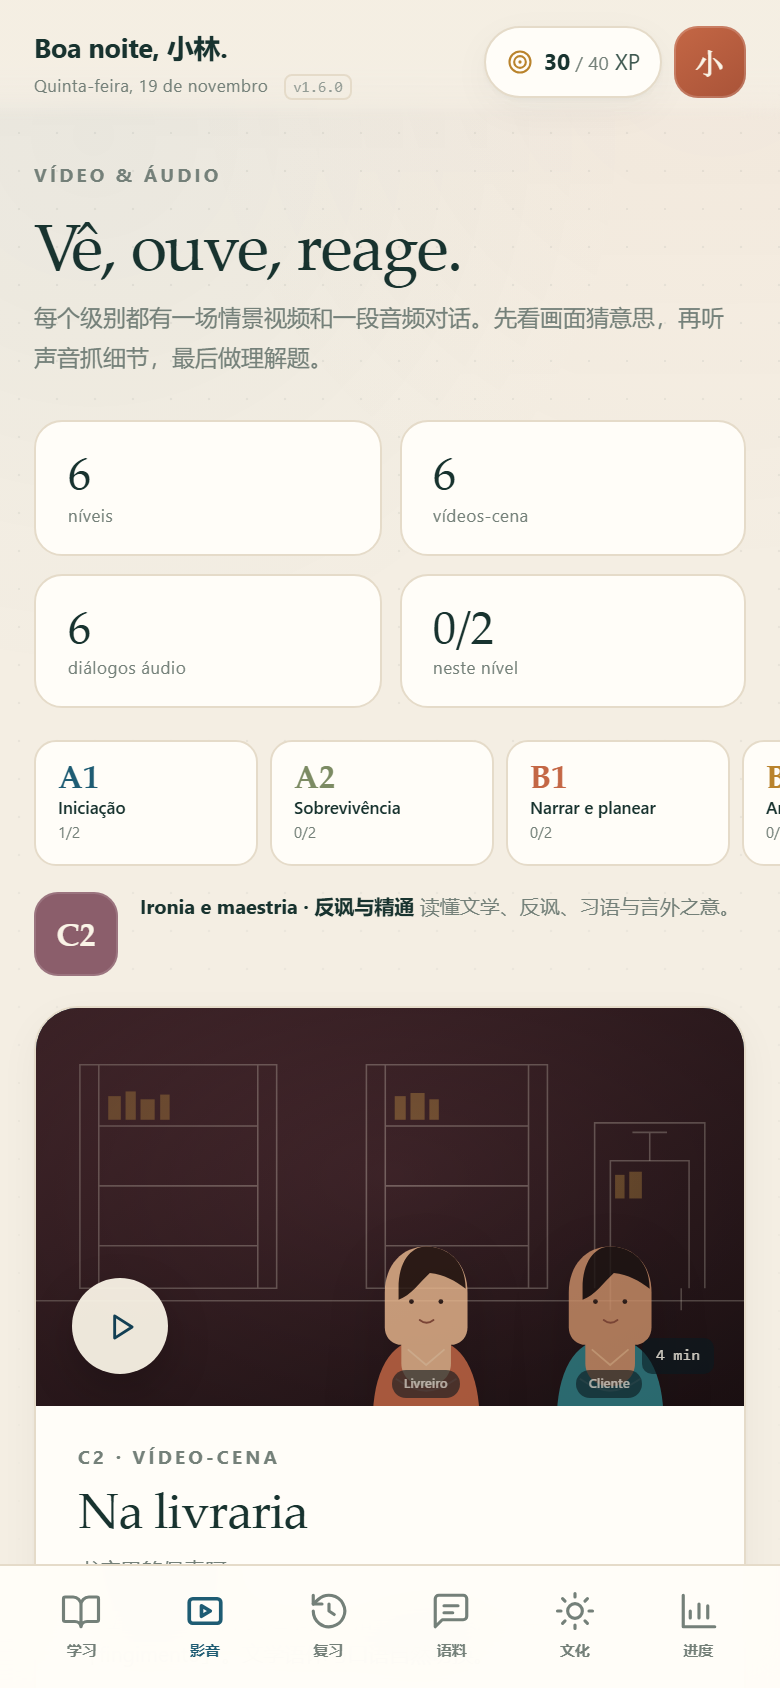
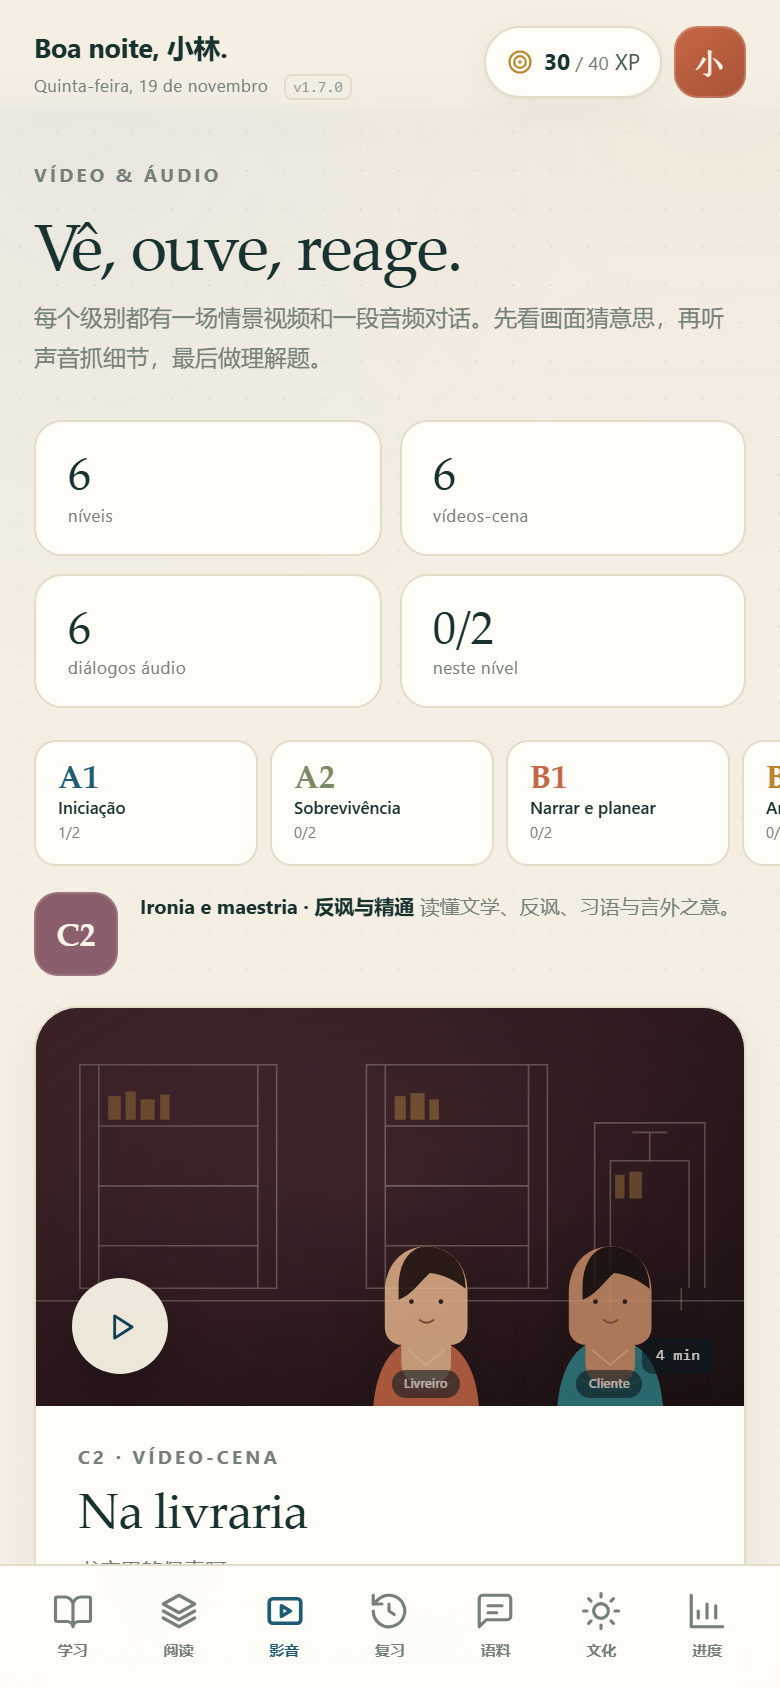
Add standalone reading library and direct entry

diff --git a/js/app.js b/js/app.js
@@ -11,7 +11,7 @@
   const RESOURCES = window.AZ_RESOURCES || [];
   const STORAGE_KEY = 'azulejo.state.v1';
   const VERSION_KEY = 'azulejo.version.seen';
-  const APP_VERSION = '1.6.0';
+  const APP_VERSION = '1.7.0';
   const XP_PER_LEVEL = 120;
   const LEVEL_TITLES = ['Curioso', 'Viajante', 'Conversador', 'Lisboeta', 'Contador de histórias', 'Alma portuguesa'];
 
@@ -536,6 +536,7 @@
 
   const NAV = [
     { id: 'learn', label: '学习', pt: 'Aprender', href: '#/learn', icon: 'book' },
+    { id: 'reading', label: '阅读', pt: 'Leitura & escuta', href: '#/reading', icon: 'layers' },
     { id: 'media', label: '影音', pt: 'Vídeo & áudio', href: '#/media', icon: 'video' },
     { id: 'review', label: '复习', pt: 'Revisão', href: '#/review', icon: 'review' },
     { id: 'phrases', label: '语料', pt: 'Frases & palavras', href: '#/phrases', icon: 'chat' },
@@ -546,6 +547,7 @@
   const ui = {
     route: 'learn',
     courseLevel: '',
+    readingLevel: 'A1',
     mediaLevel: 'A1',
     languageTab: 'phrases',
     phraseGroup: 'all',
@@ -657,7 +659,8 @@
     const info = routeInfo();
     const name = info.name;
     const mediaPlayer = name === 'media' && Boolean(info.parts[1]);
-    const focus = name === 'lesson' || mediaPlayer || (name === 'review' && info.parts[1] === 'session');
+    const directReading = name === 'read' && Boolean(info.parts[1]);
+    const focus = name === 'lesson' || directReading || mediaPlayer || (name === 'review' && info.parts[1] === 'session');
     if (mediaPlay && !mediaPlayer) {
       Speech.stop();
       clearTimeout(mediaTimer);
@@ -665,15 +668,15 @@
     }
     document.body.classList.toggle('focus-mode', focus);
     closeModal(true);
-    ui.route = name === 'lesson' ? 'learn' : name;
+    ui.route = name === 'lesson' ? 'learn' : directReading ? 'reading' : name;
     if (focus) {
-      if (name === 'lesson') {
+      if (name === 'lesson' || directReading) {
         const lesson = lessonMap.get(info.parts[1]);
         if (!lesson) {
-          location.hash = '#/learn';
+          location.hash = directReading ? '#/reading' : '#/learn';
           return;
         }
-        startLesson(lesson);
+        startLesson(lesson, directReading ? { startAt: 'immersion' } : {});
       } else if (mediaPlayer) {
         startMedia(info.parts[1]);
       } else {
@@ -681,7 +684,7 @@
       }
       return;
     }
-    if (!['learn', 'media', 'review', 'phrases', 'culture', 'progress'].includes(name)) {
+    if (!['learn', 'reading', 'media', 'review', 'phrases', 'culture', 'progress'].includes(name)) {
       location.hash = '#/learn';
       return;
     }
@@ -690,6 +693,7 @@
     ui.media = null;
     renderChrome(name);
     if (name === 'learn') renderHome();
+    if (name === 'reading') renderReadingPage();
     if (name === 'media') renderMediaPage();
     if (name === 'review') renderReviewPage();
     if (name === 'phrases') renderPhrasesPage();
@@ -1088,13 +1092,16 @@
     return steps;
   }
 
-  function startLesson(lesson) {
+  function startLesson(lesson, options = {}) {
     const steps = lessonSteps(lesson);
+    const startIndex = options.startAt === 'immersion'
+      ? Math.max(0, steps.findIndex(step => step.kind === 'immersion'))
+      : 0;
     ui.lesson = {
       id: lesson.id,
       lesson,
       steps,
-      index: 0,
+      index: startIndex,
       correct: 0,
       mistakes: 0,
       answered: false,
@@ -1102,6 +1109,7 @@
       accentWarning: false,
       feedback: '',
       done: false,
+      directReading: Boolean(options.startAt),
       stepState: null,
       immState: { answers: {}, speaking: null }
     };
@@ -1827,7 +1835,11 @@
 
   function requestLeaveLesson() {
     if (!ui.lesson || ui.lesson.done) {
-      go('#/learn');
+      go(ui.lesson && ui.lesson.directReading ? '#/reading' : '#/learn');
+      return;
+    }
+    if (ui.lesson.directReading) {
+      go('#/reading');
       return;
     }
     openConfirm('Sair da lição?', 'O progresso desta lição não será guardado. As palavras novas só entram na revisão no fim.', 'confirm-leave-lesson', 'Sair', 'Continuar a lição');
@@ -2276,6 +2288,35 @@
       <div class="resource-bottom"><span>${esc(resource.license)}</span><span class="resource-link">Abrir ${icon('arrow-right')}</span></div>
       <span class="resource-note">${esc(resource.note)}</span>
     </a>`;
+  }
+
+  function readingCardHTML(lesson) {
+    const level = lesson.unit.level;
+    const grammar = lesson.grammar ? lesson.grammar.title : `Prática · ${lesson.focusTitle || 'revisão'}`;
+    const words = lesson.vocab.slice(0, 3).map(word => word.pt).join(' · ');
+    return `<a class="reading-card reading-${level}" href="#/read/${lesson.id}" aria-label="Ler e ouvir: ${esc(lesson.title)}">
+      <div class="reading-card-top"><span class="reading-card-level">${level}</span><span class="reading-card-kind">${lesson.isLab ? 'PRÁTICA' : 'LIÇÃO'}</span></div>
+      <h3>${esc(lesson.title)}</h3>
+      <p>${esc(lesson.zh)}</p>
+      <div class="reading-card-words">${esc(words)}</div>
+      <div class="reading-card-foot"><span>${esc(grammar)}</span><b>Ler & ouvir ${icon('arrow-right')}</b></div>
+    </a>`;
+  }
+
+  function renderReadingPage() {
+    const level = LEVELS.find(item => item.id === ui.readingLevel) || LEVELS[0];
+    const lessons = lessonsForLevel(level.id);
+    const total = coreLessons.length + labLessons.length;
+    $('#view').innerHTML = `
+      <div class="page reading-page">
+        ${pageHead('LEITURA & ESCUTA', 'Lê, ouve, fala.', '每节课都有一篇场景短文、一个同级别对话和一句跟读。选一个场景，直接开始阅读。', `<div class="head-badge alt">${icon('layers')}<span><strong>${total}</strong><small>leituras</small></span></div>`)}
+        <div class="reading-level-tabs" role="tablist" aria-label="Escolhe o nível de leitura">
+          ${LEVELS.map(item => `<button class="filter-chip ${item.id === level.id ? 'is-active' : ''}" data-action="select-reading-level" data-level="${item.id}">${item.id}<span>${lessonsForLevel(item.id).length}</span></button>`).join('')}
+        </div>
+        <div class="reading-list-head"><span>${level.id} · ${lessons.length} leituras</span><span>${icon('volume')} texto + áudio + fala</span></div>
+        <div class="reading-grid">${lessons.map(readingCardHTML).join('')}</div>
+      </div>`;
+    document.title = 'Leitura & escuta · Azulejo';
   }
 
   function renderCulturePage() {
@@ -3245,6 +3286,10 @@
           if (course) course.scrollIntoView({ behavior: 'smooth', block: 'start' });
         });
         break;
+      case 'select-reading-level':
+        ui.readingLevel = el.dataset.level;
+        renderReadingPage();
+        break;
       case 'select-media-level':
         ui.mediaLevel = el.dataset.level;
         renderMediaPage();
@@ -3499,7 +3544,7 @@
         location.reload();
         break;
       case 'confirm-leave-lesson':
-        go('#/learn');
+        go(ui.lesson && ui.lesson.directReading ? '#/reading' : '#/learn');
         break;
       case 'test-voice':
         Speech.speak('Olá! Bem-vindo ao português europeu. Esta é a tua voz.', false, el);

diff --git a/css/styles.css b/css/styles.css
@@ -3202,6 +3202,57 @@ input[type="range"] { width: 100%; accent-color: var(--blue); }
   .mastery-row { grid-template-columns: 34px 130px minmax(0, 1fr) 36px; }
 }
 
+/* Reading library */
+
+.reading-page { max-width: 1180px; }
+.reading-level-tabs { display: flex; flex-wrap: wrap; gap: 6px; margin-top: 18px; }
+.reading-level-tabs .filter-chip { min-width: 62px; justify-content: center; }
+.reading-list-head { display: flex; align-items: center; justify-content: space-between; margin: 16px 0 8px; font-size: 8.5px; letter-spacing: .04em; color: var(--muted-2); }
+.reading-list-head span:last-child { display: inline-flex; align-items: center; gap: 4px; }
+.reading-list-head .icon { width: 12px; height: 12px; }
+.reading-grid { display: grid; grid-template-columns: repeat(3, minmax(0,1fr)); gap: 9px; }
+
+.reading-card {
+  --rc: var(--blue);
+  --rc-soft: var(--blue-soft);
+  display: flex;
+  flex-direction: column;
+  min-height: 208px;
+  padding: 15px;
+  border: 1px solid var(--line);
+  border-top: 3px solid var(--rc);
+  border-radius: 14px;
+  background: var(--surface);
+  transition: transform .16s ease, box-shadow .16s ease, border-color .16s ease;
+}
+.reading-card:hover { transform: translateY(-2px); border-color: color-mix(in srgb, var(--rc) 35%, var(--line)); border-top-color: var(--rc); box-shadow: 0 9px 22px rgba(24,51,47,.07); }
+.reading-A1 { --rc: var(--blue); --rc-soft: var(--blue-soft); }
+.reading-A2 { --rc: var(--terra); --rc-soft: var(--terra-soft); }
+.reading-B1 { --rc: var(--olive); --rc-soft: var(--olive-soft); }
+.reading-B2 { --rc: var(--gold-deep); --rc-soft: var(--gold-soft); }
+.reading-C1 { --rc: var(--plum); --rc-soft: var(--plum-soft); }
+.reading-C2 { --rc: var(--sea); --rc-soft: var(--sea-soft); }
+.reading-card-top { display: flex; align-items: center; justify-content: space-between; gap: 8px; }
+.reading-card-level { display: inline-grid; place-items: center; width: 26px; height: 18px; border-radius: 4px; background: var(--rc-soft); color: var(--rc); font-size: 7px; font-weight: 800; }
+.reading-card-kind { font-size: 6.5px; font-weight: 750; letter-spacing: .1em; color: var(--muted-2); }
+.reading-card h3 { margin-top: 10px; font-family: var(--font-display); font-size: 22px; font-weight: 600; line-height: 1.1; letter-spacing: -.02em; }
+.reading-card p { margin-top: 4px; font-size: 9.5px; line-height: 1.45; color: var(--muted); }
+.reading-card-words { margin-top: 8px; overflow: hidden; text-overflow: ellipsis; white-space: nowrap; font-size: 8px; color: var(--rc); }
+.reading-card-foot { display: flex; align-items: center; justify-content: space-between; gap: 8px; margin-top: auto; padding-top: 12px; border-top: 1px solid var(--line-soft); font-size: 7px; color: var(--muted-2); }
+.reading-card-foot span { overflow: hidden; text-overflow: ellipsis; white-space: nowrap; }
+.reading-card-foot b { display: inline-flex; align-items: center; gap: 3px; flex: none; color: var(--rc); font-size: 7px; }
+.reading-card-foot .icon { width: 10px; height: 10px; }
+
+@media (max-width: 1000px) {
+  .reading-grid { grid-template-columns: repeat(2, minmax(0,1fr)); }
+}
+
+@media (max-width: 620px) {
+  .reading-grid { grid-template-columns: 1fr; }
+  .reading-card { min-height: 0; }
+  .reading-list-head { margin-top: 12px; }
+}
+
 /* PT-PT external resources */
 
 .resource-section {
@@ -3289,7 +3340,7 @@ input[type="range"] { width: 100%; accent-color: var(--blue); }
   .sidebar { display: none; }
   .topbar { padding: 16px 24px 13px; }
   .view { padding: 6px 24px 104px; }
-  .bottom-nav { display: grid; grid-template-columns: repeat(6, 1fr); }
+  .bottom-nav { display: grid; grid-template-columns: repeat(7, 1fr); }
   .topbar-meta, .topbar-sep { display: none; }
   .topbar-date { font-size: 9.5px; }
   .goal-pill { height: 36px; }

diff --git a/index.html b/index.html
@@ -4,7 +4,7 @@
   <meta charset="utf-8">
   <meta name="viewport" content="width=device-width, initial-scale=1, viewport-fit=cover">
   <meta name="theme-color" content="#123f53">
-  <meta name="app-version" content="1.6.0">
+  <meta name="app-version" content="1.7.0">
   <meta name="description" content="Azulejo — 从 A1 到 C2 的欧洲葡萄牙语（pt-PT）学习应用：每级 30 节课，共 180 节；12 个情景视频与音频对话、210 个中英葡法西五语词汇、间隔复习与文化阅读。">
   <title>Azulejo · Aprender português europeu</title>
   <link rel="manifest" href="manifest.webmanifest">

diff --git a/sw.js b/sw.js
@@ -1,5 +1,5 @@
 /* Azulejo service worker — offline-first after the first visit. */
-const CACHE = 'azulejo-v1.6.0';
+const CACHE = 'azulejo-v1.7.0';
 const CORE = [
   './',
   './index.html',

diff --git a/README.md b/README.md
@@ -41,6 +41,9 @@ PT-PT 外部资源入口：
 - **7 篇文化阅读**：葡葡 vs 巴葡、`sh` 发音、`bica`、`tu` 与 `senhor`、saudade 等。
 - **5 个 PT-PT 外部资源入口**：Falar、Fala Bem、PTptIndex、EP Spoken Frequency、Conversas com Amália；在「文化 → Recursos externos」里直接跳转，全部经过 pt-PT 筛选，不含巴葡项目。
 - **每节课自己的阅读、听力和口语**：`Leitura & escuta` 步骤用本课目标句组成场景短文；听力与跟读直接取同级别的视频/音频对话，配 2 道阅读题、2 道听力题和一句角色跟读，并可打开完整媒体。
+- **独立阅读入口**：顶部「阅读」栏目按 A1–C2 列出全部 180 个阅读场景，点击卡片直接跳到该课的阅读步骤，不需要先过单词和语法。
+
+![独立阅读入口](screenshots/reading.png)
 
 ![每课阅读、听力与跟读](screenshots/immersion.png)
 - **进度系统**：XP、每日目标、连续学习、等级、14 个成就、周活动图、级别与单元掌握度。
@@ -99,7 +102,7 @@ Node.js 仅用于启动静态服务器，应用本身没有构建步骤、没有
 
 ## 版本号与更新提示
 
-当前版本：**v1.6.0**。
+当前版本：**v1.7.0**。
 
 - 顶栏、侧栏底部和「设置」里都会显示当前版本号。
 - 当本地记录的版本号与 `APP_VERSION` 不一致时，打开应用会弹出 `Azulejo atualizado para vX.Y.Z` 提示。

diff --git a/CHANGELOG.md b/CHANGELOG.md
@@ -1,5 +1,12 @@
 # Changelog
 
+## 1.7.0 — 2026-11-19
+
+- Added a top-level `Leitura & escuta` library with all 180 lessons grouped by CEFR level.
+- Reading cards jump directly to the immersion step of a lesson via `#/read/{lessonId}`.
+- Direct reading sessions return to the reading library when closed.
+- Bumped the service worker cache to `azulejo-v1.7.0`.
+
 ## 1.6.0 — 2026-11-19
 
 - Added a per-lesson `Leitura & escuta` step to all 180 lessons.
